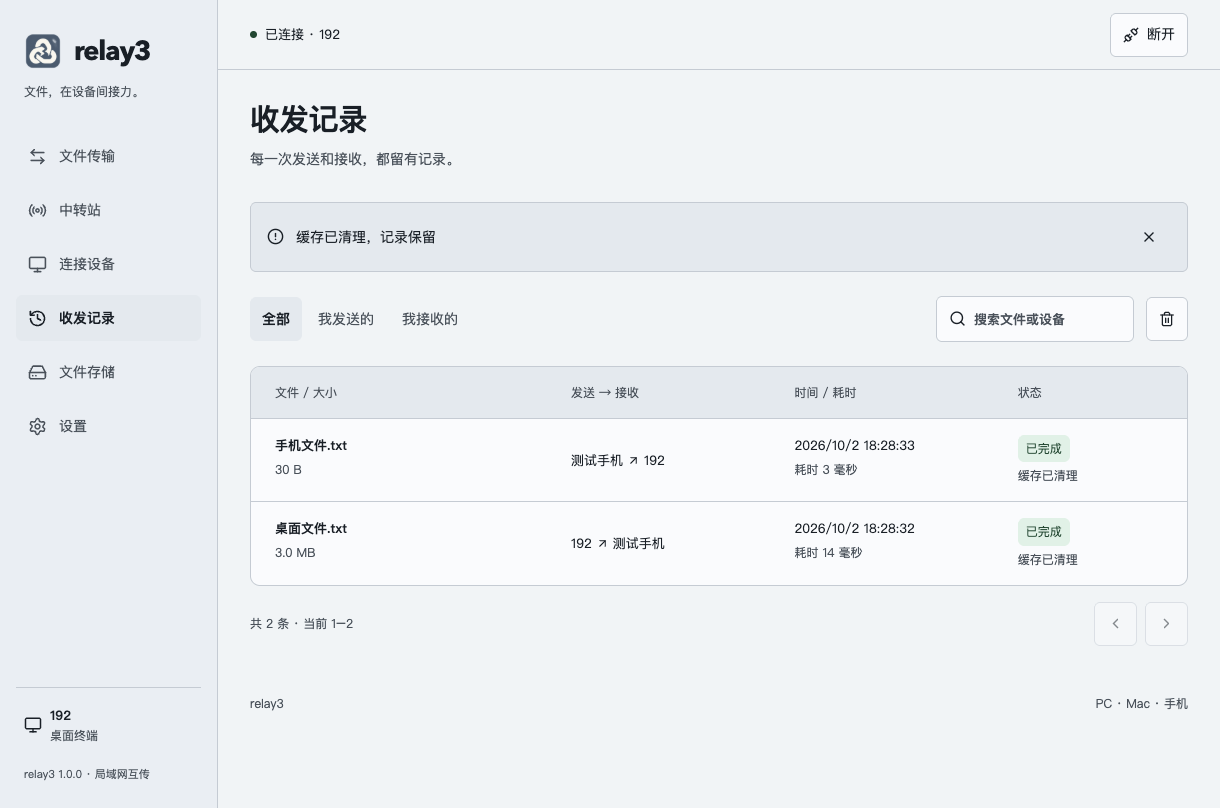
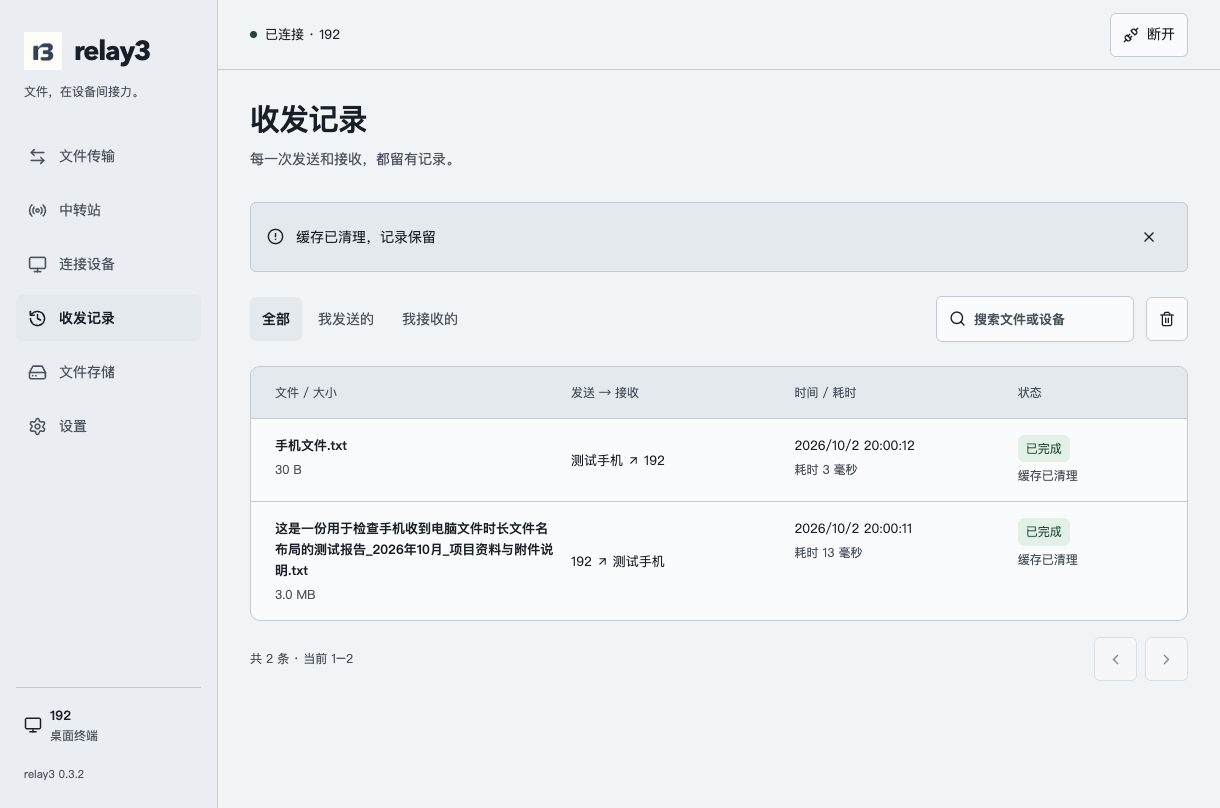
fix(身份) 完善断网身份更换并记录 0.3.2 安装验证

diff --git a/src/App.tsx b/src/App.tsx
@@ -545,7 +545,14 @@ export default function App() {
   }
   async function resetIdentity() {
     for (const t of transfers) await window.relay3?.cancelDownload(t.id);
-    if (session && connected) await request(session.base, session.token, '/api/identity/reset', {});
+    let remoteRevoked = true;
+    if (session && connected) {
+      try {
+        await request(session.base, session.token, '/api/identity/reset', {});
+      } catch {
+        remoteRevoked = false;
+      }
+    }
     disconnect();
     setSavedHubs({});
     save('relay3-hubs', {});
